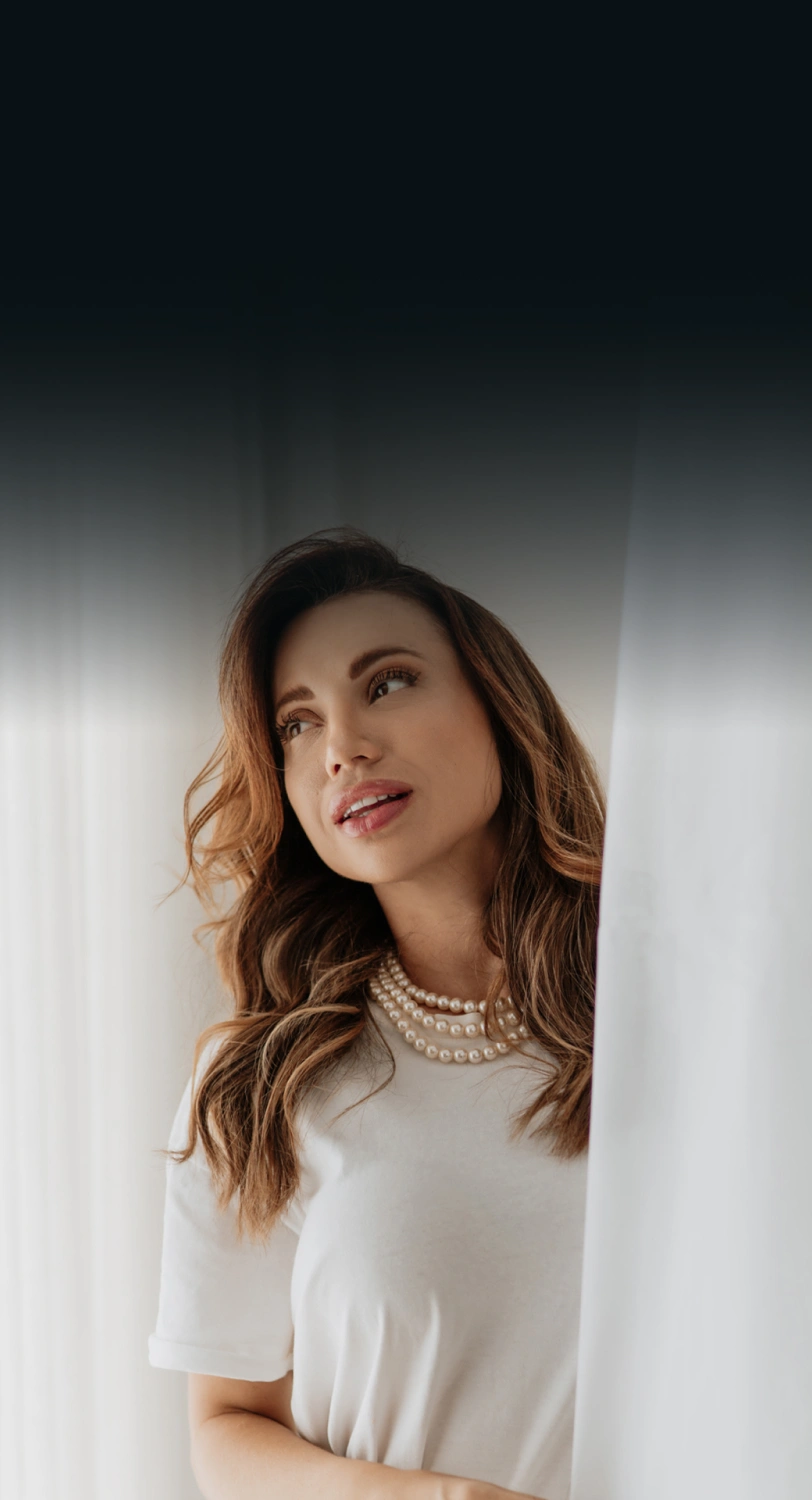
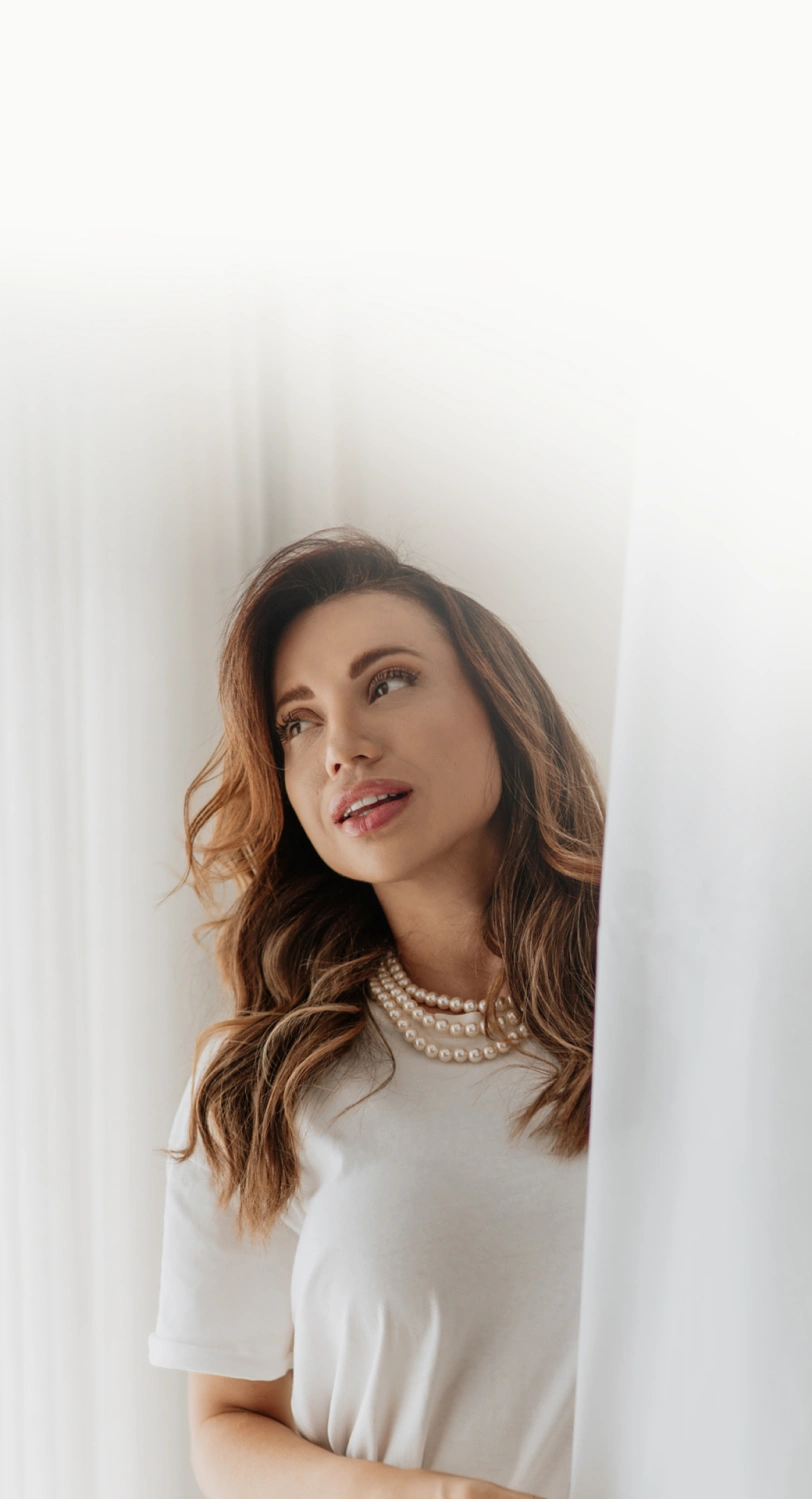
clara

diff --git a/styles.css b/styles.css
@@ -13,17 +13,17 @@
 
 :root {
   --primary: #007A8A;
-  --primary-hover: #00A0B3;
-  --bg-base: #070A0C;
-  --bg-section: #0B1215;
-  --surface: #0F1B1F;
-  --stroke: #1B2D33;
-  --text-primary: #EAF2F3;
-  --text-secondary: #B6C7CB;
-  --muted: #7E949A;
-  --highlight: #0D3B43;
-  --success: #27C4B6;
-  --font-serif: 'Cormorant Garamond', Georgia, serif;
+  --primary-hover: #005F6B;
+  --bg-base: #FAFAF8;
+  --bg-section: #F2F1ED;
+  --surface: #FFFFFF;
+  --stroke: #DDD9D0;
+  --text-primary: #1A2A2E;
+  --text-secondary: #4A6269;
+  --muted: #8A9EA3;
+  --highlight: #E6F3F5;
+  --success: #007A8A;
+  --font-serif: 'Baskerville', 'Libre Baskerville', Georgia, serif;
   --font-sans: 'Manrope', 'Segoe UI', sans-serif;
   --container: 1140px;
   --radius: 12px;
@@ -91,7 +91,7 @@ h2,
 h3,
 h4 {
   font-family: var(--font-serif);
-  font-weight: 600;
+  font-weight: 400;
   line-height: 1.2;
   color: var(--text-primary);
 }
@@ -99,7 +99,7 @@ h4 {
 h1 {
   font-size: clamp(2.8rem, 6vw, 5rem);
   letter-spacing: 0.06em;
-  font-weight: 700;
+  font-weight: 400;
 }
 
 h2 {
@@ -156,7 +156,7 @@ p {
   border-radius: 100px;
   letter-spacing: 0.04em;
   margin-bottom: 1.5rem;
-  border: 1px solid rgba(0, 122, 138, 0.25);
+  border: 1px solid rgba(0, 122, 138, 0.2);
 }
 
 /* --- Buttons --- */
@@ -184,7 +184,7 @@ p {
 .btn--primary {
   background: var(--primary);
   color: #fff;
-  box-shadow: 0 0 20px rgba(0, 122, 138, 0.2), 0 4px 12px rgba(0, 0, 0, 0.25);
+  box-shadow: 0 0 20px rgba(0, 122, 138, 0.15), 0 4px 12px rgba(0, 0, 0, 0.08);
   position: relative;
   overflow: hidden;
   -webkit-mask-image: -webkit-radial-gradient(white, black);
@@ -196,7 +196,7 @@ p {
 .btn--primary:hover {
   background: var(--primary-hover);
   color: #fff;
-  box-shadow: 0 0 28px rgba(0, 160, 179, 0.3), 0 6px 18px rgba(0, 0, 0, 0.35);
+  box-shadow: 0 0 28px rgba(0, 122, 138, 0.2), 0 6px 18px rgba(0, 0, 0, 0.1);
   transform: translateY(-3px);
   filter: brightness(1.05);
 }
@@ -274,7 +274,7 @@ p {
 .btn--primary:hover .btn__icon {
   transform: translateY(-50%) scale(1);
   opacity: 1;
-  color: #070A0C;
+  color: #1A2A2E;
 }
 
 .btn--primary:hover .btn__icon svg {
@@ -318,7 +318,7 @@ p {
 
 .card:hover {
   border-color: rgba(0, 122, 138, 0.4);
-  box-shadow: 0 0 20px rgba(0, 122, 138, 0.08);
+  box-shadow: 0 4px 16px rgba(0, 0, 0, 0.06);
 }
 
 /* --- Placeholder Image --- */
@@ -335,7 +335,7 @@ p {
   text-transform: uppercase;
   letter-spacing: 0.08em;
   min-height: 260px;
-  box-shadow: 0 8px 32px rgba(0, 0, 0, 0.25);
+  box-shadow: 0 8px 32px rgba(0, 0, 0, 0.08);
   position: relative;
   overflow: hidden;
 }
@@ -373,7 +373,7 @@ p {
   align-items: center;
   position: relative;
   overflow: hidden;
-  background-color: #091114;
+  background-color: #FAFAF8;
 }
 
 .hero__bg {
@@ -389,7 +389,7 @@ p {
 .hero__overlay {
   position: absolute;
   inset: 0;
-  background: linear-gradient(90deg, rgba(7, 10, 12, 0.92) 0%, rgba(7, 10, 12, 0.75) 50%, rgba(7, 10, 12, 0.45) 100%);
+  background: linear-gradient(90deg, rgba(250, 250, 248, 0.95) 0%, rgba(250, 250, 248, 0.5) 35%, transparent 60%);
   z-index: 1;
 }
 
@@ -619,6 +619,16 @@ p {
   margin-bottom: 16px;
 }
 
+.proof-card__img {
+  width: 100%;
+  height: 220px;
+  object-fit: cover;
+  border-radius: var(--radius);
+  margin-bottom: 16px;
+  border: 1px solid var(--stroke);
+  box-shadow: 0 4px 16px rgba(0, 0, 0, 0.04);
+}
+
 .proof-card h3 {
   font-size: 1rem;
   color: var(--text-secondary);
@@ -669,7 +679,7 @@ p {
 .venue-gallery__overlay {
   position: absolute;
   inset: 0;
-  background: linear-gradient(180deg, transparent 50%, rgba(7, 10, 12, 0.5) 100%);
+  background: linear-gradient(180deg, transparent 50%, rgba(0, 0, 0, 0.15) 100%);
   pointer-events: none;
   transition: opacity 0.5s ease;
 }
@@ -677,7 +687,7 @@ p {
 .venue-gallery__main:hover,
 .venue-gallery__secondary:hover {
   border-color: rgba(0, 122, 138, 0.45);
-  box-shadow: 0 12px 40px rgba(0, 122, 138, 0.1), 0 0 0 1px rgba(0, 122, 138, 0.08);
+  box-shadow: 0 12px 40px rgba(0, 0, 0, 0.08), 0 0 0 1px rgba(0, 122, 138, 0.15);
 }
 
 .venue-gallery__main:hover .venue-gallery__img,
@@ -695,7 +705,7 @@ p {
   display: inline-flex;
   align-items: center;
   gap: 20px;
-  background: rgba(15, 27, 31, 0.7);
+  background: rgba(255, 255, 255, 0.85);
   backdrop-filter: blur(16px);
   -webkit-backdrop-filter: blur(16px);
   border: 1px solid var(--stroke);
@@ -735,14 +745,14 @@ p {
   max-width: 800px;
   margin: 40px auto 0;
   aspect-ratio: 16/9;
-  background: #000;
+  background: #1A2A2E;
   border: 1px solid var(--stroke);
   border-radius: var(--radius);
   display: flex;
   align-items: center;
   justify-content: center;
   overflow: hidden;
-  box-shadow: 0 12px 40px rgba(0, 0, 0, 0.35);
+  box-shadow: 0 12px 40px rgba(0, 0, 0, 0.1);
 }
 
 .video-container video {
@@ -771,7 +781,7 @@ p {
   transform: translate(-50%, -50%);
   width: 700px;
   height: 700px;
-  background: radial-gradient(circle, rgba(0, 122, 138, 0.1) 0%, rgba(0, 122, 138, 0.03) 40%, transparent 70%);
+  background: radial-gradient(circle, rgba(0, 122, 138, 0.06) 0%, rgba(0, 122, 138, 0.02) 40%, transparent 70%);
   pointer-events: none;
   z-index: 0;
 }
@@ -868,9 +878,9 @@ p {
 }
 
 .price-card-v2:hover {
-  border-color: rgba(0, 122, 138, 0.45);
+  border-color: rgba(0, 122, 138, 0.35);
   transform: translateY(-6px);
-  box-shadow: 0 16px 40px rgba(0, 122, 138, 0.12), 0 0 0 1px rgba(0, 122, 138, 0.1);
+  box-shadow: 0 16px 40px rgba(0, 0, 0, 0.08), 0 0 0 1px rgba(0, 122, 138, 0.15);
 }
 
 .price-card-v2:hover::before {
@@ -881,7 +891,7 @@ p {
 .price-card-v2--featured {
   border-color: rgba(0, 122, 138, 0.5);
   background: linear-gradient(165deg, var(--highlight) 0%, var(--surface) 50%);
-  box-shadow: 0 0 40px rgba(0, 122, 138, 0.08);
+  box-shadow: 0 0 40px rgba(0, 122, 138, 0.06);
   transform: scale(1.04);
   padding-top: 48px;
 }
@@ -892,7 +902,7 @@ p {
 
 .price-card-v2--featured:hover {
   transform: scale(1.04) translateY(-6px);
-  box-shadow: 0 20px 50px rgba(0, 122, 138, 0.18), 0 0 0 1px rgba(0, 122, 138, 0.2);
+  box-shadow: 0 20px 50px rgba(0, 0, 0, 0.1), 0 0 0 1px rgba(0, 122, 138, 0.2);
 }
 
 /* "Mais escolhido" badge */
@@ -1034,8 +1044,8 @@ p {
 }
 
 .speaker-card-v2:hover {
-  border-color: rgba(0, 122, 138, 0.4);
-  box-shadow: 0 16px 48px rgba(0, 122, 138, 0.1), 0 0 0 1px rgba(0, 122, 138, 0.08);
+  border-color: rgba(0, 122, 138, 0.3);
+  box-shadow: 0 16px 48px rgba(0, 0, 0, 0.08), 0 0 0 1px rgba(0, 122, 138, 0.12);
   transform: translateY(-4px);
 }
 
@@ -1349,13 +1359,18 @@ p {
   }
 
   .hero__overlay {
-    background: linear-gradient(180deg, rgba(7, 10, 12, 0.95) 0%, rgba(7, 10, 12, 0.4) 40%, rgba(7, 10, 12, 0.1) 100%);
+    background: linear-gradient(180deg, rgba(250, 250, 248, 0.95) 0%, rgba(250, 250, 248, 0.6) 40%, transparent 80%);
   }
 
   .hero__content {
     text-align: center;
     max-width: 100%;
     margin-bottom: 600px;
+  }
+
+  .hero__logo {
+    margin-left: auto;
+    margin-right: auto;
   }
 
   .hero__sub {

diff --git a/sections2.js b/sections2.js
@@ -56,7 +56,7 @@
 <section class="section invest-section" id="investimento">
   <div class="invest-glow"></div>
   <div class="container fade-in text-center" style="position:relative;z-index:1">
-    <img src="logo-azul.svg" alt="Imersão Gênesis" class="section-logo">
+    <img src="logoverdeescuro.svg" alt="Imersão Gênesis" class="section-logo">
     <span class="badge" style="margin-bottom:1.8rem">Investimento</span>
     <h2>Não é apenas um evento.<br>É um novo começo.</h2>
     <p style="margin:0 auto 1.5rem;max-width:560px">Tudo foi pensado para que a experiência seja completa, profunda e memorável.</p>
@@ -283,14 +283,13 @@
     <div class="about-grid" style="margin-top:40px">
       <div class="about-text">
         <h3>Formação</h3>
-        <p>Consultora de imagem e estilo certificada, com formações em coloração pessoal, visagismo e comunicação não-verbal.</p>
+        <p>Formada em Design de moda, com curso profissionalizante em Moda pelo Centro Europeu e pós-graduada em Marketing Digital pelo Senac , possui inúmeros cursos na área do vestuário como modelagem, desenho de moda, costura e computação gráfica para moda. Atualmente é mestranda em Design do Vestuário e Moda pela UDESC.</p>
 
         <h3>Trajetória</h3>
-        <p>Ao longo dos últimos anos, Larissa acompanhou a transformação de centenas de mulheres — não apenas na forma como se vestem, mas na forma como se percebem e se posicionam.</p>
-        <p>Cada imersão, cada consultoria e cada encontro é guiado por um princípio: a roupa é o último passo. Antes, vem a mulher.</p>
+        <p>Começou a empreender com 24 anos e ganhou vasta experiência em agências de publicidade em marketing de moda e então, no ano de 2020 relançou sua marca de moda fitness. Hoje, após sua especialização em Consultoria de imagem e estilo em Paris com Andréia Furco e sua própria transformação de imagem lançou seu próprio método chamado Gênesis, na qual ajuda mulheres a se posicionarem como referência em suas áreas. Especialista em posicionamento premium transforma mulheres inseguras em mulheres com autoridade.</p>
 
-        <h3>Método</h3>
-        <p>O Método Gênesis integra identidade, imagem, presença e posicionamento em um processo único e profundo. Não é sobre tendências — é sobre verdade.</p>
+        <h3>Atuação</h3>
+        <p>Trabalha de forma online e presencial através de consultorias, mentorias, palestras, imersões e workshops.</p>
       </div>
       <div>
         <img src="fotolari.webp" alt="Larissa Bovo" style="width:100%; border-radius:var(--radius); box-shadow:0 8px 32px rgba(0,0,0,0.25);">
@@ -304,7 +303,7 @@
 <!-- ========== SEÇÃO 13 — CTA FINAL ========== -->
 <section class="final-cta" id="cta-final">
   <div class="container fade-in">
-    <img src="logo-azul.svg" alt="Imersão Gênesis" class="section-logo">
+    <img src="logoverdeescuro.svg" alt="Imersão Gênesis" class="section-logo">
     <h2>Antes de mudar a roupa…<br>uma nova mulher começa a surgir.</h2>
     <p style="max-width:620px">Se você sente que está pronta para ser percebida como a mulher que se tornou… essa imersão é para você.</p>
     <span class="badge">04 de Julho de 2026 • 9:15h às 20h • Balneário Camboriú/SC</span>

diff --git a/index.html b/index.html
@@ -7,7 +7,7 @@
   <meta name="description" content="Imersão presencial feminina de imagem, identidade e posicionamento. 04 de Julho de 2026, Balneário Camboriú/SC.">
   <link rel="preconnect" href="https://fonts.googleapis.com">
   <link rel="preconnect" href="https://fonts.gstatic.com" crossorigin>
-  <link href="https://fonts.googleapis.com/css2?family=Cormorant+Garamond:ital,wght@0,400;0,500;0,600;0,700;1,400;1,500&family=Manrope:wght@300;400;500;600;700;800&display=swap" rel="stylesheet">
+  <link href="https://fonts.googleapis.com/css2?family=Libre+Baskerville:ital,wght@0,400;0,700;1,400&family=Manrope:wght@300;400;500;600;700;800&display=swap" rel="stylesheet">
   <link rel="stylesheet" href="styles.css">
 </head>
 <body>
@@ -18,7 +18,7 @@
   <div class="hero__overlay"></div>
   <div class="container">
     <div class="hero__content fade-in">
-      <img src="logo-azul.svg" alt="Imersão Gênesis" class="hero__logo">
+      <img src="logoverdeescuro.svg" alt="Imersão Gênesis" class="hero__logo">
       <span class="badge">04 de Julho de 2026 • 9:15h às 20h</span>
       <h1>IMERSÃO<br>GÊNESIS</h1>
       <p class="hero__sub">Quando identidade e imagem se alinham, sua presença comunica autoridade e a sua imagem te posiciona como referência.</p>
@@ -179,27 +179,15 @@
 
     <div class="proof-grid">
       <div class="proof-card">
-        <div class="placeholder">
-          <span class="placeholder__icon">📷</span>
-          PLACEHOLDER DA IMAGEM
-          <span class="placeholder__caption">Você vai inserir a imagem aqui</span>
-        </div>
+        <img src="fotos_locais/despertarnacabana.webp" alt="Imersão Despertar na Cabana" class="proof-card__img" loading="lazy">
         <h3>Imersão Despertar na Cabana — 3 dias na Serra Catarinense</h3>
       </div>
       <div class="proof-card">
-        <div class="placeholder">
-          <span class="placeholder__icon">📷</span>
-          PLACEHOLDER DA IMAGEM
-          <span class="placeholder__caption">Você vai inserir a imagem aqui</span>
-        </div>
+        <img src="fotos_locais/jantar.webp" alt="Jantar Antes & Depois" class="proof-card__img" loading="lazy">
         <h3>Jantar Antes &amp; Depois — Florianópolis</h3>
       </div>
       <div class="proof-card">
-        <div class="placeholder">
-          <span class="placeholder__icon">📷</span>
-          PLACEHOLDER DA IMAGEM
-          <span class="placeholder__caption">Você vai inserir a imagem aqui</span>
-        </div>
+        <img src="fotos_locais/imersaoprisma.webp" alt="Imersão Prisma" class="proof-card__img" loading="lazy">
         <h3>Imersão Prisma — Balneário Camboriú</h3>
       </div>
     </div>
